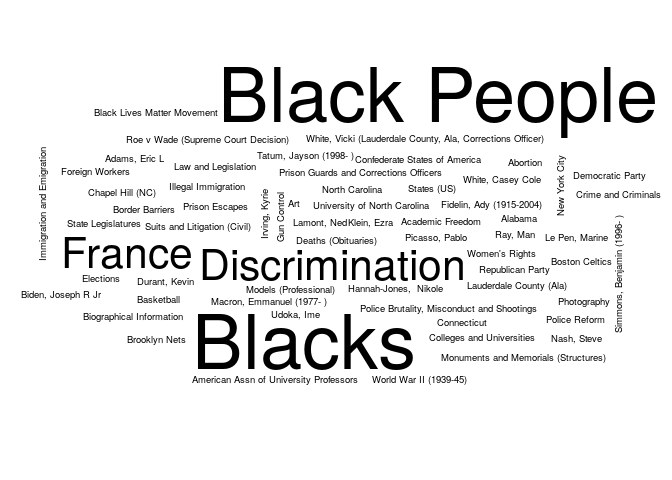
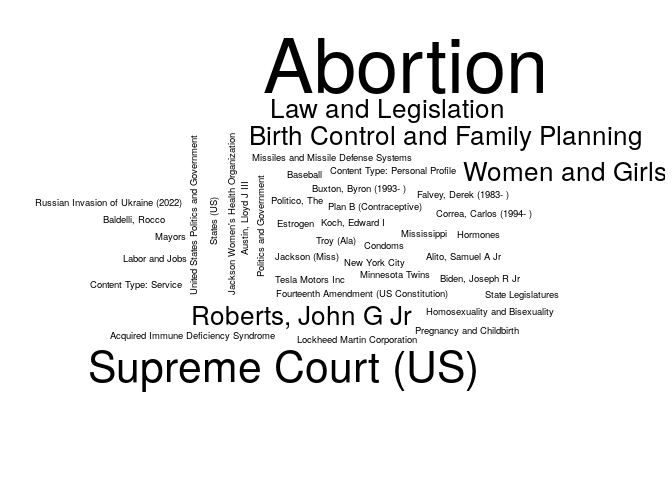
Updating the NYT report

Changed region(s): [[0.0312, 0.0625, 1.0, 0.8125]]

diff --git a/03-nytimes/README.md b/03-nytimes/README.md
@@ -5,7 +5,7 @@ The following is an example of how to use the [NYTimes
 API](https://developer.nytimes.com/) to get a list of articles related
 to a particular term. Here we are searching articles that include the
 term `"health"`, and that were published up to seven days ago since
-2022-05-02.
+2022-05-09.
 
 ``` r
 # Preparing a function to use the GET method with the NYTimes API
@@ -83,25 +83,25 @@ colnames(tab) <- c("Keyword", "# Articles")
 knitr::kable(tab, row.names = FALSE)
 ```
 
-| Keyword                                | \# Articles |
-|:---------------------------------------|------------:|
-| Black People                           |          30 |
-| Blacks                                 |          30 |
-| Politics and Government                |          30 |
-| Discrimination                         |          20 |
-| France                                 |          20 |
-| Abortion                               |          10 |
-| Academic Freedom                       |          10 |
-| Adams, Eric L                          |          10 |
-| Alabama                                |          10 |
-| American Assn of University Professors |          10 |
-| Art                                    |          10 |
-| Basketball                             |          10 |
-| Biden, Joseph R Jr                     |          10 |
-| Biographical Information               |          10 |
-| Black Lives Matter Movement            |          10 |
-| Border Barriers                        |          10 |
-| Boston Celtics                         |          10 |
-| Brooklyn Nets                          |          10 |
-| Chapel Hill (NC)                       |          10 |
-| Colleges and Universities              |          10 |
+| Keyword                             | \# Articles |
+|:------------------------------------|------------:|
+| Abortion                            |          50 |
+| Roe v Wade (Supreme Court Decision) |          50 |
+| Supreme Court (US)                  |          30 |
+| Birth Control and Family Planning   |          20 |
+| Law and Legislation                 |          20 |
+| Roberts, John G Jr                  |          20 |
+| Women and Girls                     |          20 |
+| Acquired Immune Deficiency Syndrome |          10 |
+| Alito, Samuel A Jr                  |          10 |
+| Austin, Lloyd J III                 |          10 |
+| Baldelli, Rocco                     |          10 |
+| Baseball                            |          10 |
+| Biden, Joseph R Jr                  |          10 |
+| Buxton, Byron (1993- )              |          10 |
+| Condoms                             |          10 |
+| Content Type: Personal Profile      |          10 |
+| Content Type: Service               |          10 |
+| Correa, Carlos (1994- )             |          10 |
+| Estrogen                            |          10 |
+| Falvey, Derek (1983- )              |          10 |
